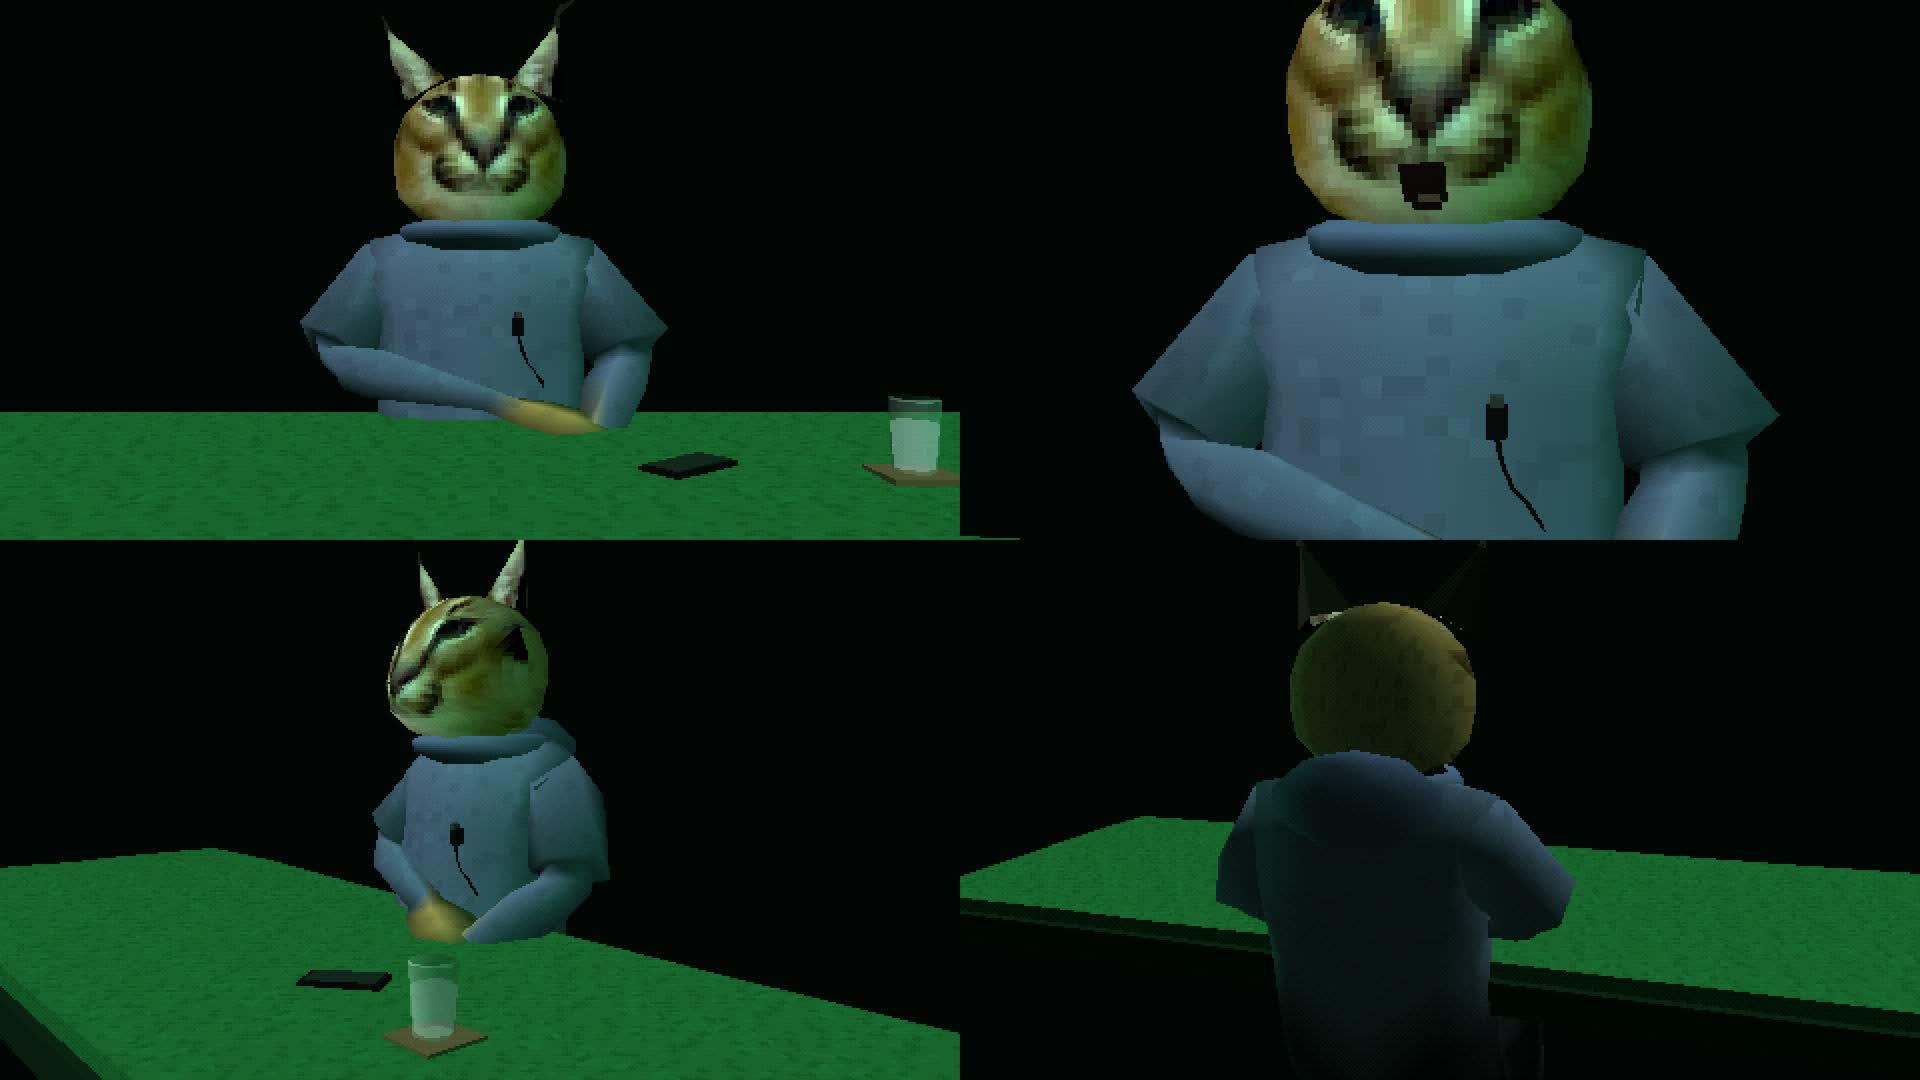
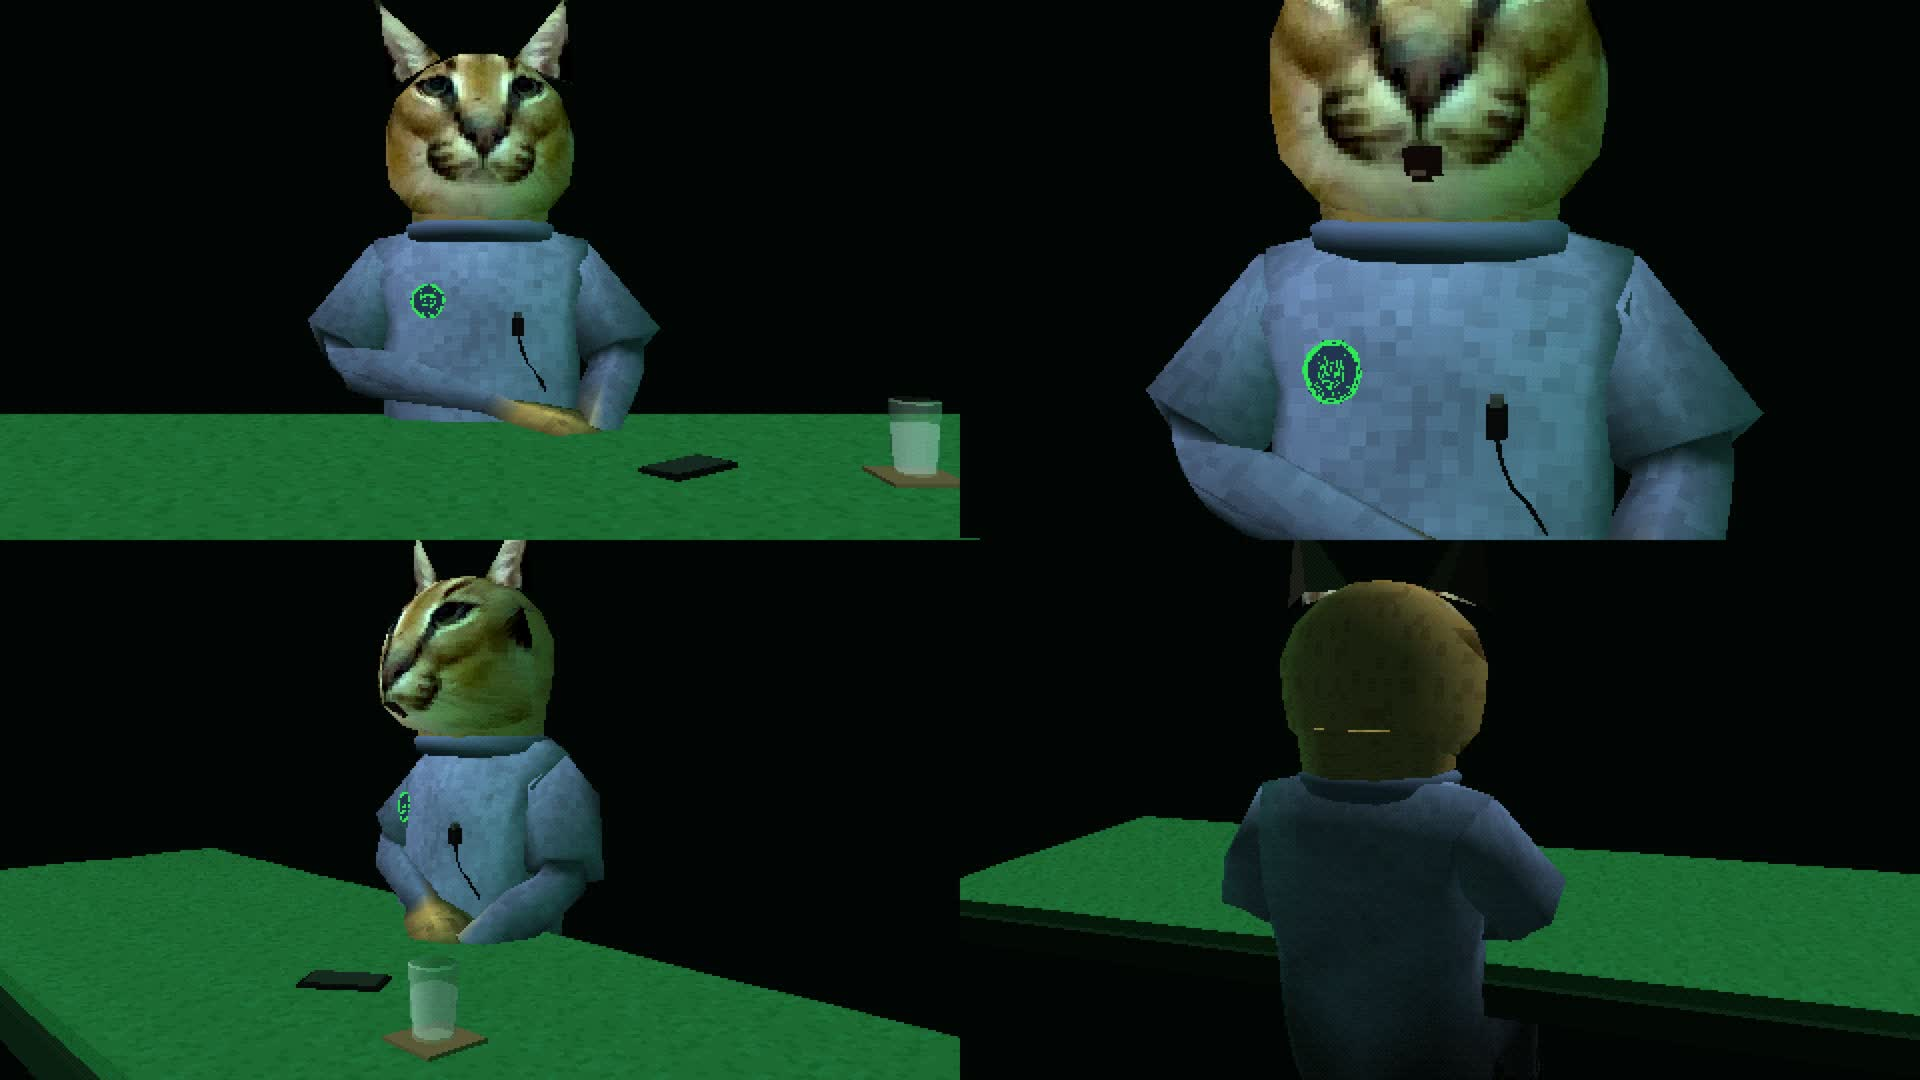
Igor v2: textura pintada do modelo recolorida, cabeça em 112 px, pescoço de pelo, emblema verde
Claude-Session: https://claude.ai/code/session_01PVUNKmUDvaP2jpRAvnz1fM

diff --git a/lib/tgp.js b/lib/tgp.js
@@ -9,25 +9,57 @@ const CORPO = 'material/modelos/personagem-simples.glb';
 // pinta a malha com esqueleto por osso dominante: f(nomeDoOsso) → '#hex'
 export function pintarPorOsso(malha, f) {
   const g = malha.geometry, si = g.attributes.skinIndex, sw = g.attributes.skinWeight, n = g.attributes.position.count;
-  const cor = new Float32Array(n * 3), c = new THREE.Color();
+  const cor = new Float32Array(n * 3), c = new THREE.Color(), nr = g.attributes.normal, rnd = P.rng(9);
   for (let i = 0; i < n; i++) {
     let b = 0, w = -1;
     for (let k = 0; k < 4; k++) { const wk = sw.getComponent(i, k); if (wk > w) { w = wk; b = si.getComponent(i, k); } }
-    c.set(f(malha.skeleton.bones[b].name)); cor.set([c.r, c.g, c.b], i * 3);
+    c.set(f(malha.skeleton.bones[b].name));
+    const nx = nr ? Math.abs(nr.getX(i)) : 0, k = (1 - .22 * nx * nx) * (.9 + .2 * rnd());     // sombra "pintada": laterais mais escuras + variação
+    cor.set([c.r * k, c.g * k, c.b * k], i * 3);
   }
   g.setAttribute('color', new THREE.BufferAttribute(cor, 3));
 }
 const ehMao = n => /hand|palm|thumb|f_|findex|fmiddle|fring|fpinky/.test(n);
 const ehPerna = n => /thigh|shin|foot|toe|heel|pelvis/.test(n);
 
-// corpo humano com esqueleto, sem a cabeça original; `cores` = { roupa, mao, perna }
+const ehPe = n => /foot|toe|heel/.test(n);
+
+// A textura pintada do modelo (dobras, costuras, sombra) vira um "relevo" em cinza: cada região (camiseta, pele, jeans)
+// é normalizada pelo próprio tom, e a cor passa a vir da tinta por osso. Assim a roupa muda de cor sem perder o desenho.
+async function relevo(tam = 128) {
+  const img = await M.imagem('material/modelos/personagem-simples.png');
+  const c = document.createElement('canvas'); c.width = c.height = tam;
+  const x = c.getContext('2d'); x.drawImage(img, 0, 0, tam, tam);
+  const d = x.getImageData(0, 0, tam, tam), q = d.data, R = P.rng(5);
+  for (let i = 0; i < q.length; i += 4) {
+    const r = q[i] / 255, g = q[i + 1] / 255, b = q[i + 2] / 255, lum = .3 * r + .59 * g + .11 * b, sat = Math.max(r, g, b) - Math.min(r, g, b);
+    const linha = Math.floor(i / 4 / tam) / tam;
+    let n;
+    if (r > g && g > b && r - b > .12 && r > .4) n = lum / .66;                 // pele
+    else if (b > r + .05) n = lum / .36;                                        // jeans
+    else if (linha < .38) { const cu = (i / 4 % tam) / tam, est = (cu > .2 && cu < .32 && linha > .08 && linha < .19) || (cu > .46 && cu < .68 && linha > .04 && linha < .3); n = est ? P.clamp(lum / .86, .9, 1.1) : P.clamp(lum / .86, .55, 1.15); n = .5 + (n - .5) * 1.5; }   // camiseta: a estampa some, as dobras ficam mais fortes
+    else if (sat < .14 && lum > .55) n = lum / .86;                                               // estampa da camiseta: some
+    else n = lum / .45;                                                         // tênis, cabelo
+    if (linha < .38 || (r > g && g > b && r - b > .12 && r > .4 && linha > .38 && linha < .75)) {      // tecido: dobras largas + trama mesclada
+      const cu = (i / 4 % tam) / tam;
+      n *= 1 + .1 * Math.sin(cu * 46 + Math.sin(linha * 31) * 2.2) * Math.sin(linha * 19 + cu * 7) + (R() - .5) * .16;
+    }
+    const v = Math.round(P.clamp(n, .25, 1.25) / 1.25 * 255); q[i] = q[i + 1] = q[i + 2] = v;
+  }
+  x.putImageData(d, 0, 0);
+  const t = new THREE.CanvasTexture(c); t.flipY = false; t.magFilter = t.minFilter = THREE.NearestFilter; t.generateMipmaps = false; t.colorSpace = THREE.NoColorSpace;
+  return t;
+}
+
+// corpo humano com esqueleto; `cores` = { roupa, mao, perna, pe } · o.cabeca: true mantém a cabeça original
 export async function corpo(cores, o = {}) {
-  const m = await M.carregar(CORPO, { fora: ['Icosphere', ...(o.semCabeca === false ? [] : ['head'])], esc: o.esc ?? .85, mat: { corVertice: true, mapa: null, cor: '#ffffff', ...(o.mat || {}) } });
-  const tecido = P.textura(16, 16, (x, w, h, r) => { x.fillStyle = '#f0f0f0'; x.fillRect(0, 0, w, h); for (let i = 0; i < 50; i++) { x.fillStyle = r() < .5 ? '#ffffff' : '#e2e2e2'; x.fillRect(Math.floor(r() * w), Math.floor(r() * h), 1, 1); } }, { seed: 7 });
+  const m = await M.carregar(CORPO, { fora: ['Icosphere', ...(o.cabeca ? [] : ['head'])], esc: o.esc ?? .85, texMax: 128, mat: { corVertice: true, ...(o.mat || {}) } });
+  const rel = await relevo();
   for (const ml of m.malhas) {
-    if (ml.isSkinnedMesh) pintarPorOsso(ml, n => ehMao(n) ? cores.mao : ehPerna(n) ? cores.perna : cores.roupa);
+    if (!ml.isSkinnedMesh || /head/.test(ml.name)) continue;
+    pintarPorOsso(ml, n => ehMao(n) ? cores.mao : ehPe(n) ? (cores.pe ?? '#26262a') : ehPerna(n) ? cores.perna : cores.roupa);
     const ms = Array.isArray(ml.material) ? ml.material : [ml.material];
-    ms.forEach(mt => { mt.uniforms.uMapa.value = tecido; mt.uniforms.uTemMapa.value = 1; mt.uniforms.uRep.value.set(6, 6); });
+    ms.forEach(mt => { mt.uniforms.uMapa.value = rel; mt.uniforms.uTemMapa.value = 1; mt.uniforms.uCor.value.setRGB(1.25, 1.25, 1.25); });
   }
   const B = n => m.osso(n);
   // sentado: coxas pra frente, canelas pra baixo
@@ -38,10 +70,25 @@ export async function corpo(cores, o = {}) {
   return m;
 }
 
+// logo da Toca do Anão recolorida pra verde (traço verde em fundo escuro, redonda; fora do círculo é transparente)
+export async function logoVerde(tam = 48, fundo = '#0a2413') {
+  const img = await M.imagem('material/logo-toca-do-anao.png');
+  const c = document.createElement('canvas'); c.width = c.height = tam; const x = c.getContext('2d');
+  x.drawImage(img, 0, 0, tam, tam); const d = x.getImageData(0, 0, tam, tam), q = d.data, F = new THREE.Color(fundo), V = new THREE.Color(VERDE);
+  for (let i = 0; i < q.length; i += 4) {
+    const px = i / 4 % tam, py = Math.floor(i / 4 / tam), rr = Math.hypot(px + .5 - tam / 2, py + .5 - tam / 2) / (tam / 2);
+    const lum = (q[i] + q[i + 1] + q[i + 2]) / 765, tinta = rr < .88 ? lum < .45 : rr < .98;
+    const k = tinta ? V : F; q[i] = k.r * 255; q[i + 1] = k.g * 255; q[i + 2] = k.b * 255; q[i + 3] = rr < 1 ? 255 : 0;
+  }
+  x.putImageData(d, 0, 0);
+  const t = new THREE.CanvasTexture(c); t.magFilter = t.minFilter = THREE.NearestFilter; t.generateMipmaps = false; t.colorSpace = THREE.NoColorSpace;
+  return t;
+}
+
 // ───────────────────────── IGOR ANÃO ─────────────────────────
 // Cabeça de caracal: a foto (material/floppa.jpg) projetada de frente numa cabeça low-poly, pixelada.
 // Tudo medido em pixels da foto e depois escalado: centro do rosto (240, 232), largura ~280 px.
-const FOTO = { cx: 240, cy: 232, rec: [50, 22, 360, 345], tw: 72, th: 69 };   // recorte [x, y, w, h] → textura tw×th
+const FOTO = { cx: 240, cy: 232, rec: [50, 22, 360, 345], tw: 112, th: 107 };   // recorte [x, y, w, h] → textura tw×th
 export async function igor(o = {}) {
   const foto = await M.imagem('material/floppa.jpg');
   const [rx, ry, rw, rh] = FOTO.rec;
@@ -105,35 +152,38 @@ export async function igor(o = {}) {
     og.add(new THREE.Mesh(gf, matFoto), new THREE.Mesh(gt, matPreto), new THREE.Mesh(tufo, matPreto));
     cab.add(og); orelhas.push(og);
   }
-  const k = (o.largura ?? .4) / 280; cab.scale.setScalar(k);
+  const k = (o.largura ?? .44) / 280; cab.scale.setScalar(k);
 
   // corpo: moletom azul-acinzentado, mãos de pelo
-  const c = await corpo({ roupa: '#5d6c9c', mao: PELO, perna: '#1b1d24' });
+  const c = await corpo({ roupa: '#6473a8', mao: '#c79a62', perna: '#2a3040' });
   const g = c.obj;                                   // grupo raiz (escala .85)
-  g.scale.x *= 1.2; g.scale.z *= 1.12;             // tronco mais largo, como na foto
+  g.scale.x *= 1.14; g.scale.z *= 1.1;             // tronco mais largo, como na foto
   const pesc = new THREE.Group(); pesc.scale.set(1 / g.scale.x, 1 / g.scale.y, 1 / g.scale.z); g.add(pesc); pesc.add(cab);
   // gola e capuz do moletom + microfone de lapela
   const mol = P.mat({ cor: '#56659a' }), molEsc = P.mat({ cor: '#465383' });
-  const gola = P.tornear([[.11, -.05], [.165, -.03], [.17, .0], [.14, .012]], mol, { seg: 8 }); pesc.add(gola);
-  const capuz = P.esfera(.13, molEsc, { seg: 7, segV: 5, pos: [0, -.03, -.1], esc: [1.25, .7, .8] }); pesc.add(capuz);
+  // pescoço de pelo largo (a cabeça nasce dos ombros, como na foto) e gola baixa do moletom
+  pesc.add(P.cilindro(.15, .14, .11, matPelo, { seg: 9, pos: [0, .04, .012] }));
+  pesc.add(P.tornear([[.118, -.035], [.152, -.022], [.156, .004], [.132, .016]], mol, { seg: 9, pos: [0, 0, .01] }));
   const mic = new THREE.Group();
   mic.add(P.caixa(.022, .034, .02, P.mat({ cor: '#0c0c0e' })), P.caixa(.014, .012, .016, P.mat({ cor: '#3a3d42' }), { pos: [0, .022, .002] }));
   mic.add(P.tubo([[0, -.017, 0], [.012, -.06, .004], [.04, -.1, -.01], [.07, -.16, -.03]], .003, P.mat({ cor: '#0c0c0e' }), { seg: 6, lados: 3 }));
   pesc.add(mic);
+  const emblema = P.disco(.036, P.mat({ mapa: await logoVerde(40, '#2c3a66'), semLuz: false }), { seg: 10 }); pesc.add(emblema);
 
   const I = { obj: g, corpo: c, cabeca: cab, orelhas, pescoco: pesc, mic, tex,
     // posiciona cabeça/gola no osso do pescoço (chame depois de mexer na pose)
     assentar() {
       g.updateMatrixWorld(true);
       const w = new THREE.Vector3(); c.osso('spine.004').getWorldPosition(w); g.worldToLocal(w);
-      pesc.position.copy(w); cab.position.set(0, .15, .045); mic.position.set(.075, -.2, .15);
+      pesc.position.copy(w); cab.position.set(0, .175, .05); mic.position.set(.075, -.2, .15); emblema.position.set(-.1, -.15, .155); emblema.rotation.set(-.12, -.25, 0);
     },
     // boca (0–1, volume da voz), piscada (0–1), tempo (orelhas e cabeça mexem de leve)
     animar(t, { boca = 0, pisca = 0 } = {}) {
       cx.putImageData(base, 0, 0);
-      if (pisca > .5) { cx.fillStyle = '#a5804f'; for (const ex of [190, 291]) { const [u, v] = px(ex - 26, 168); cx.fillRect(Math.round(u), Math.round(v), 10, 5); const [u2, v2] = px(ex - 24, 186); cx.fillStyle = '#3b2a1c'; cx.fillRect(Math.round(u2), Math.round(v2), 9, 1); cx.fillStyle = '#a5804f'; } }
-      const ab = Math.round(P.clamp(boca) * 5);
-      if (ab > 0) { const [u, v] = px(240, 283); cx.fillStyle = '#170b0a'; cx.fillRect(Math.round(u) - 3, Math.round(v), 6, ab); cx.fillRect(Math.round(u) - 2, Math.round(v) + ab, 4, 1); if (ab > 2) { cx.fillStyle = '#6b4a44'; cx.fillRect(Math.round(u) - 1, Math.round(v) + ab - 1, 3, 1); } }
+      const F = cv.width / 72, R = v => Math.round(v * F);
+      if (pisca > .5) for (const ex of [190, 291]) { const [u, v] = px(ex - 26, 166); cx.fillStyle = '#b08752'; cx.fillRect(Math.round(u), Math.round(v), R(10), R(5)); const [u2, v2] = px(ex - 24, 188); cx.fillStyle = '#3b2a1c'; cx.fillRect(Math.round(u2), Math.round(v2), R(9), Math.max(1, R(.8))); }
+      const ab = Math.round(P.clamp(boca) * R(3.4));
+      if (ab > 0) { const [u, v] = px(240, 282); cx.fillStyle = '#170b0a'; cx.fillRect(Math.round(u) - R(2.2), Math.round(v), R(4.4), ab); cx.fillRect(Math.round(u) - R(1.4), Math.round(v) + ab, R(2.8), R(.7)); if (ab > R(2)) { cx.fillStyle = '#6b4a44'; cx.fillRect(Math.round(u) - R(1), Math.round(v) + ab - R(.8), R(2), R(.8)); } }
       tex.needsUpdate = true;
       orelhas[0].rotation.z = Math.sin(t * 1.7) * .035 + (Math.sin(t * .9 + 1) > .93 ? .16 : 0);
       orelhas[1].rotation.z = -Math.sin(t * 1.3 + 2) * .035 - (Math.sin(t * .7 + 4) > .95 ? .16 : 0);

diff --git a/videos/90-teste-igor/index.html b/videos/90-teste-igor/index.html
@@ -13,7 +13,7 @@ window.SETUP = async () => {
   const CAMS = { medio: [[0, 1.0, 1.75], [0, 1.02, 0], 36], mao: [[.1, 1.05, .9], [.05, .78, .2], 34], perto: [[.12, 1.12, 1.05], [0, 1.06, 0], 34], lado: [[1.5, 1.15, 1.3], [0, .95, 0], 34], costas: [[-.5, 1.35, -1.3], [0, .95, .4], 40] };
   const [cam, alvo, fov] = CAMS[vista];
   const S = P.palco({ fov, cam, alvo, fundo: '#020604', nevoa: { cor: T.SOMBRA, perto: 2.2, longe: 7 },
-    luz: { keyDir: [-.35, .8, .55], keyCor: '#cfe9cf', fillDir: [.8, .1, .3], fillCor: '#1d5f37', amb: '#18301f' } });
+    luz: { keyDir: [-.35, .8, .55], keyCor: '#e6efe2', fillDir: [.8, .1, .3], fillCor: '#1d5f37', amb: '#243a2b' } });
   const I = await T.igor(); S.scene.add(I.obj);
   I.obj.position.set(0, -.36, 0);
   I.corpo.sentar();
